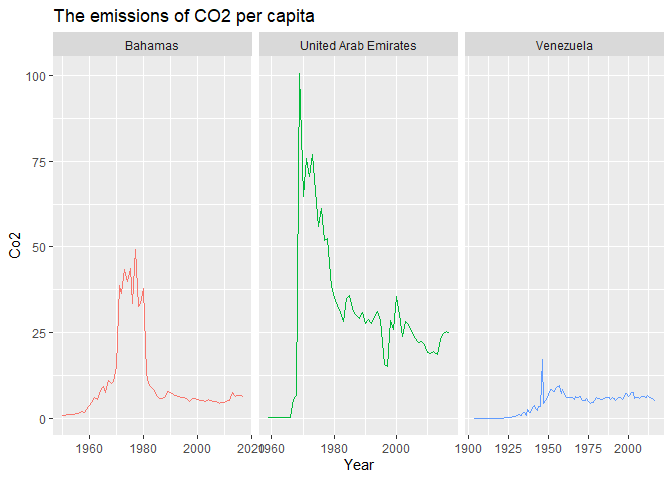
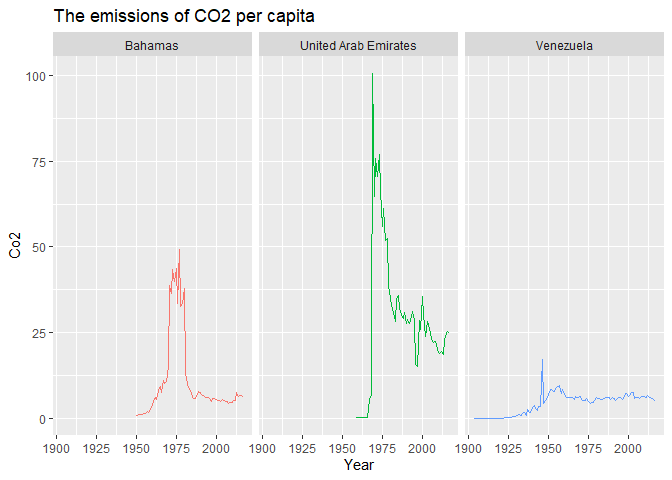
io

diff --git a/_posts/2019-11-15-Outlier-Detection.md b/_posts/2019-11-15-Outlier-Detection.md
@@ -205,7 +205,7 @@ particular countries: Venezuela, United Arab Emirates, and the Bahamas.
 ``` {.r}
 co %>% filter(Entity %in% c("Venezuela", "United Arab Emirates", "Bahamas")) %>%
 ggplot() + geom_line(aes(x = Year, y = Co2, color = Entity)) +
-  theme(legend.position="None") + facet_grid(.~Entity, scales = "free") +
+  theme(legend.position="None") + facet_grid(.~Entity, scales = "fixed") +
   ggtitle("The emissions of CO2 per capita")
 ```
 
@@ -272,7 +272,7 @@ have an additive outlier/outliers:
 ``` {.r}
 AO <- co[co$Entity %in% c("Brunei", "Mauritania", "Togo", "United Kingdom", "Venezuela", "Yemen"), ]
 ggplot(data = AO) + geom_line(aes(x = Year, y = Co2, color = Entity)) +
-  theme(legend.position="None") + facet_wrap(~Entity,scales = "free") +
+  theme(legend.position="None") + facet_wrap(~Entity, scales = "free") +
   ggtitle("The emissions of CO2 per capita")
 ```
 
@@ -593,7 +593,36 @@ LS[LS$Entity == "Iceland",][12,]
     ##        Entity Code Year      Co2
     ## 16501 Iceland  ISL 1950 5.188092
 
-<br></br> And for Iceland. <br></br>
+And for Bahamas:
+
+``` {.r}
+tsoutliers::tso(ts(LS[LS$Entity == "Bahamas", "Co2"], 
+  start = LS[LS$Entity == "Bahamas", "Year"][1]),types = "LS") 
+```
+
+    ## Series: ts(LS[LS$Entity == "Bahamas", "Co2"], start = LS[LS$Entity ==      "Bahamas", "Year"][1]) 
+    ## Regression with ARIMA(3,0,0) errors 
+    ## 
+    ## Coefficients:
+    ##          ar1    ar2     ar3     LS22      LS32
+    ##       0.1292  0.525  0.2965  26.6765  -23.6281
+    ## s.e.  0.1150  0.097  0.1150   1.9063    1.8062
+    ## 
+    ## sigma^2 estimated as 6.589:  log likelihood=-159.16
+    ## AIC=330.33   AICc=331.71   BIC=343.65
+    ## 
+    ## Outliers:
+    ##   type ind time coefhat  tstat
+    ## 1   LS  22 1971   26.68  13.99
+    ## 2   LS  32 1981  -23.63 -13.08
+
+``` {.r}
+LS[LS$Entity == "Bahamas",][c(22,32),]
+```
+
+    ##       Entity Code Year      Co2
+    ## 2570 Bahamas  BHS 1971 38.67267
+    ## 2580 Bahamas  BHS 1981 12.99207
 
 A dummy variable can be used to account for level shift outliers and
 innovative outliers in the data. Rather than omitting the outlier, a
